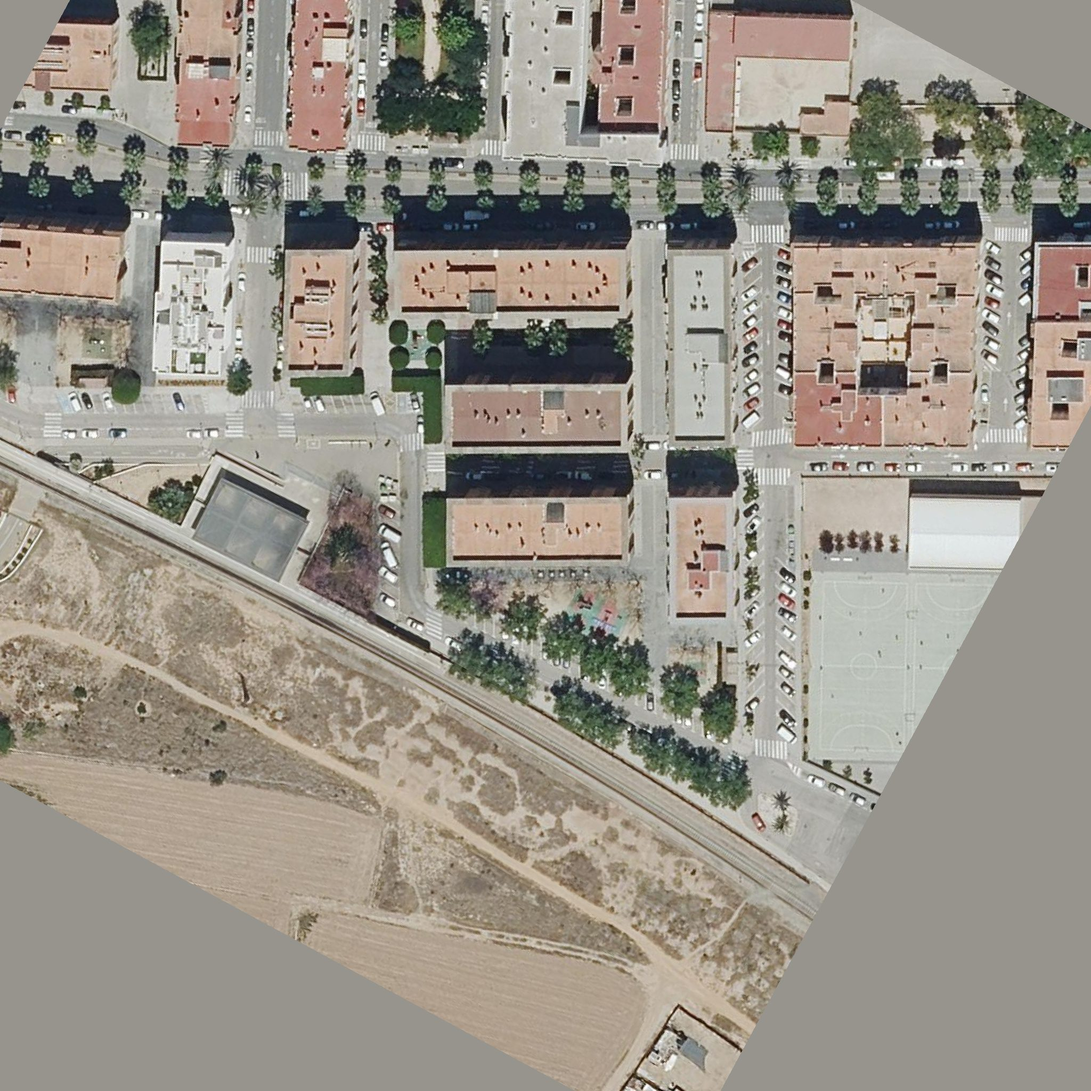
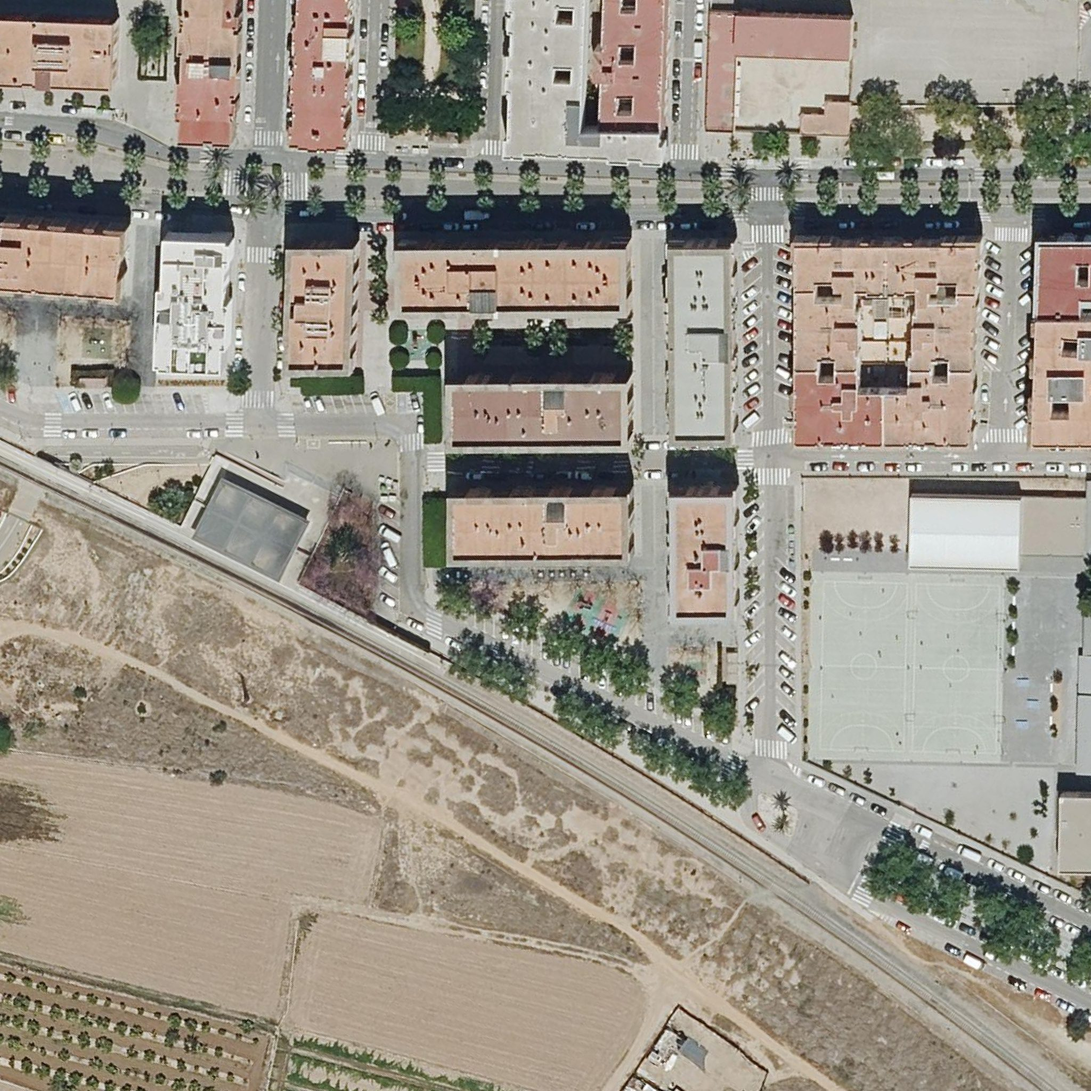
Parque del Avión: rebuild the park across Guerrer de Moixent
Replace the made-up school block with what the orthophoto shows: two futsal
pitches, a sandy area with a row of trees, the white sports hall; make it
walkable. Grass and hedges instead of the brown beds; larger orthophoto.

Claude-Session: https://claude.ai/code/session_01MoTK5Y6DpsqpTUyRVnBivJ

diff --git a/index.html b/index.html
@@ -184,9 +184,9 @@ const MAPS = {
   },
   avion: {
     title: 'PARQUE DEL AVIÓN', sub: 'XIRIVELLA · AV. DE LA CONSTITUCIÓ · PL. COMARE ROSARIO SOLER', street: 'Pl. de la Comare Rosario Soler',
-    ortho: 'assets/ortho_avion.jpg', nav: { x0: -46, z0: -30, w: 112, h: 92 }, map: { x0: -47, z0: -30, s: 1.55 },
-    spawns: [[-32, -22], [-32, -4], [-38, 9], [-18, -20.5], [2, -20.5], [24, -20.5], [44, -20.5], [54, -24], [54, 2], [54, 26], [54, 48], [30, 49], [8, 36], [-20, 19]],
-    pvp: [[-33, -14], [-32, 4], [-8, -20.5], [26, -8], [54, 30], [47, 46], [36, 20], [-16, 21.5], [-15.5, -6], [4, -6], [14, 39.5], [-4, 4]],
+    ortho: 'assets/ortho_avion.jpg', nav: { x0: -46, z0: -30, w: 163, h: 92 }, map: { x0: -48, z0: -36, s: 1.09 },
+    spawns: [[-32, -22], [-32, -4], [-38, 9], [-18, -20.5], [2, -20.5], [24, -20.5], [44, -20.5], [54, -24], [54, 2], [54, 26], [54, 48], [30, 49], [8, 36], [-20, 19], [100, 30], [70, -10], [112, 45], [90, -20.5]],
+    pvp: [[-33, -14], [-32, 4], [-8, -20.5], [26, -8], [54, 30], [47, 46], [36, 20], [-16, 21.5], [-15.5, -6], [4, -6], [14, 39.5], [-4, 4], [76, 40], [100, 18], [75, -8], [112, 48]],
     start: [26, 6, 2.2], coop: [[24, 3], [26, 4]], coopLook: [12, 14], vsA: [-33, -12], vsB: [54, 32],
     zone: { x: 12, z: 14.5, r: 4.5, name: 'el parque infantil' },
   },
@@ -702,7 +702,7 @@ const AV = {
   villa: { x0: -20.8, x1: -10.6, z0: -10.5, z1: -0.3, door: -13 },
   tot: { x0: -0.6, x1: 9.6, z0: -10.5, z1: -0.3, door: 6 },
   playground: { x0: 6, x1: 18, z0: 9.5, z1: 20 },
-  west: -42.5, east: 63.5, north: -26.6,
+  west: -42.5, east: 114.5, north: -26.6,
 };
 if (MAPID === 'avion') {   // textures only this map uses (built only when needed so map 1 keeps its random layout)
 T.paveGrey = makeTex(256, 256, (g, w, h) => {
@@ -723,8 +723,8 @@ T.hedge = makeTex(128, 128, (g, w, h) => {
 });
 T.flowers = makeTex(128, 128, (g, w, h) => {
   g.fillStyle = '#3f2f22'; g.fillRect(0, 0, w, h);
-  speckle(g, w, h, 1600, ['#3d6b2c', '#4f7d35', '#2e5422'], 2, 5);
-  speckle(g, w, h, 900, ['#d1202a', '#e2343a', '#b5141f', '#f05a4a'], 2, 4);
+  speckle(g, w, h, 5000, ['#3d6b2c', '#4f7d35', '#2e5422', '#5a8a3a'], 2, 5);
+  speckle(g, w, h, 700, ['#d1202a', '#e2343a', '#b5141f', '#f05a4a'], 2, 4);
 });
 T.brickFacade = facadeTex('#b8693f', '#e9e4da', true);
 T.brickFacade2 = facadeTex('#c27a4c', '#7c6a58', true);
@@ -936,7 +936,7 @@ function avionLevel() {
   if (PB_concrete) for (const k of ['map', 'normalMap', 'roughnessMap']) side[k].repeat.set(1 / 2.5, 1 / 2.5);
   polySlab([[-29, -17.5], [50.5, -17.5], [50.5, edge(50.5)], [0, edge(0)], [0, zc(0) - 3.25], [-29, zc(-29) - 3.25]], 0.15, plaza);
   polySlab([[-42.5, zc(-42.5) + 8.25], [xCap, zc(xCap) + 8.25], [xCap, W(xCap)], [-42.5, W(-42.5)]], 0.15, side);
-  polySlab([[-42.5, -26.6], [64, -26.6], [64, -23.5], [-42.5, -23.5]], 0.15, side);
+  polySlab([[-42.5, -26.6], [114.5, -26.6], [114.5, -23.5], [-42.5, -23.5]], 0.15, side);
   polySlab([[-42.5, -23.5], [-40.5, -23.5], [-40.5, 7], [-42.5, 7]], 0.15, side);
   polySlab([[61.5, -23.5], [64, -23.5], [64, AV.capZ], [61.5, AV.capZ]], 0.15, side);
 
@@ -969,8 +969,12 @@ function avionLevel() {
     }
   }
   // garden by Carrer del Guerrer de Moixent (OpenStreetMap park), raised bed with flowers and railing
-  flowerBed(29.5, 24, 40.5, 33.5); railing(29.4, 23.9, 40.6, 23.9); railing(29.4, 23.9, 29.4, 33.6); railing(40.6, 23.9, 40.6, 33.6);
-  flowerBed(41.5, 34.5, 46, 41.5);
+  { const grass = makeTex(128, 128, (g, w, h) => { g.fillStyle = '#5d7d3a'; g.fillRect(0, 0, w, h); speckle(g, w, h, 6000, ['#6b8c44', '#4f6e30', '#77984e', '#587a36'], 1, 2); });
+    for (const [x0, z0, x1, z1] of [[29.5, 24, 40.5, 33.5], [41.5, 34.5, 46, 41.5]]) {
+      flat(grass, x0, z0, x1, z1, 0.16, 2, { layer: 3, rough: 1 });
+      const hm = std({ map: rep(T.hedge, 2, 1), roughness: 0.95 });
+      box(x1 - x0, 0.55, 0.45, hm, (x0 + x1) / 2, 0.15, z0 + 0.22, { sight: false }); box(0.45, 0.55, z1 - z0, hm, x0 + 0.22, 0.15, (z0 + z1) / 2, { sight: false }); box(0.45, 0.55, z1 - z0, hm, x1 - 0.22, 0.15, (z0 + z1) / 2, { sight: false });
+    } }
 
   // ------------------------------------------------ buildings (OpenStreetMap footprints and storeys)
   const HA = blockAv(AV.A, 6, T.brickFacade, T.shopX, [AV.villa, AV.tot]);
@@ -987,14 +991,54 @@ function avionLevel() {
     st.position.set(-71.5, 2.75, -9.6); st.rotation.y = -0.46; addMesh(st);
     const sg = signTex(512, 64, (g, w, h) => { g.fillStyle = '#f4f4f0'; g.fillRect(0, 0, w, h); g.fillStyle = '#1c3f7a'; g.font = 'bold 36px sans-serif'; g.textAlign = 'center'; g.textBaseline = 'middle'; g.fillText('XIRIVELLA - ALQUERIES', w / 2, h / 2 + 2); });
     const sm = new THREE.Mesh(new THREE.PlaneGeometry(8, 1), std({ map: sg, emissive: 0x333333 })); sm.position.set(-62.6, 4.2, -5.3); sm.rotation.y = -0.46 + Math.PI / 2; scene.add(sm); }
-  // IES Ramon Muntaner: sports court and school building, behind a tall fence
-  { const cm = flat(T.court, 64.5, 6, 108, 50, 0.02, 0, { layer: 2, rough: 0.9 }).material; cm.map.repeat.set(1, 1); }
-  blockAv({ x0: 66, x1: 104, z0: -22, z1: 2 }, 2, T.facadeB, T.shopX);
+  // park on the other side of Carrer del Guerrer de Moixent (measured on the orthophoto): two futsal pitches
+  // side by side, a sandy area with a row of trees, the white sports hall and a column of trees on the far side
   {
-    const fenceMat = new THREE.MeshStandardMaterial({ map: T.chain, alphaMap: T.chain, alphaTest: 0.35, side: THREE.DoubleSide, color: 0x6f9a6a, metalness: 0.5, roughness: 0.5 });
-    const L = 80, FH = 3.2, tex = T.chain.clone(); tex.repeat.set(L / 0.12, FH / 0.12); tex.needsUpdate = true; const mat = fenceMat.clone(); mat.map = tex; mat.alphaMap = tex;
-    const p = new THREE.Mesh(new THREE.PlaneGeometry(L, FH), mat); p.position.set(AV.east + 0.3, FH / 2, 22); p.rotation.y = Math.PI / 2; scene.add(p);
-    for (let z = -18; z <= 62; z += 3) { const post = new THREE.Mesh(new THREE.CylinderGeometry(0.04, 0.04, FH, 6), M.green); post.position.set(AV.east + 0.3, FH / 2, z); scene.add(post); }
+    const court = makeTex(880, 888, (g, w, h) => {   // 20 px per metre: x 65 … 109, z 6.8 … 51.2
+      g.fillStyle = '#bdbab2'; g.fillRect(0, 0, w, h);
+      speckle(g, w, h, 30000, ['#b3b0a8', '#c6c3bb', '#a9a69e'], 1, 2.5);
+      blotches(g, w, h, 30, 'rgba(70,65,55,0.10)', 30, 90);
+      g.strokeStyle = '#f2f2ec'; g.lineWidth = 3.5;
+      for (const ox of [0, 440]) {
+        const x0 = ox + 20, x1 = ox + 420, y0 = 20, y1 = h - 20, cx = (x0 + x1) / 2, cy = h / 2;
+        g.strokeRect(x0, y0, x1 - x0, y1 - y0);
+        g.beginPath(); g.moveTo(x0, cy); g.lineTo(x1, cy); g.stroke();
+        g.beginPath(); g.arc(cx, cy, 60, 0, Math.PI * 2); g.stroke();
+        g.beginPath(); g.arc(cx, y0, 120, 0, Math.PI); g.stroke();
+        g.beginPath(); g.arc(cx, y1, 120, Math.PI, Math.PI * 2); g.stroke();
+      }
+    });
+    court.wrapS = court.wrapT = THREE.ClampToEdgeWrapping;
+    const sand = PB_dirt ? pbr(PB_dirt, 1, 1, 1, { color: 0xe6d2a8 }) : std({ map: T.dirt });
+    if (PB_dirt) for (const k of ['map', 'normalMap', 'roughnessMap']) sand[k].repeat.set(1 / 3, 1 / 3);
+    const pave = PB_concrete ? pbr(PB_concrete, 1, 1, 1, { color: new THREE.Color().setRGB(1.3, 1.28, 1.24) }) : std({ map: T.concrete });
+    if (PB_concrete) for (const k of ['map', 'normalMap', 'roughnessMap']) pave[k].repeat.set(1 / 3, 1 / 3);
+    polySlab([[64, -17.5], [86.6, -17.5], [86.6, 6.8], [64, 6.8]], 0.15, sand);
+    polySlab([[86.6, -17.5], [114.5, -17.5], [114.5, 6.8], [86.6, 6.8]], 0.15, pave);
+    polySlab([[64, 6.8], [114.5, 6.8], [114.5, 52], [64, 52]], 0.15, pave);
+    { const m = flat(court, 65, 6.8, 109, 51.2, 0.152, 0, { layer: 3, rough: 0.9 }); m.material.map.repeat.set(1, 1); if (PB_concrete) { m.material.normalMap = rep(PB_concrete.normalMap, 14, 14); m.material.needsUpdate = true; } }
+    // futsal goals at both ends of both pitches
+    const goal = (gx, z, dir) => {
+      const g = new THREE.Group(), pm = M.white;
+      const p1 = new THREE.Mesh(new THREE.CylinderGeometry(0.05, 0.05, 2, 8), pm); p1.position.set(-1.5, 1, 0);
+      const p2 = p1.clone(); p2.position.x = 1.5;
+      const cb = new THREE.Mesh(new THREE.CylinderGeometry(0.05, 0.05, 3.1, 8), pm); cb.rotation.z = Math.PI / 2; cb.position.y = 2;
+      const nt = T.chain.clone(); nt.repeat.set(30, 20); nt.needsUpdate = true;
+      const nm = new THREE.MeshStandardMaterial({ map: nt, alphaMap: nt, alphaTest: 0.35, side: THREE.DoubleSide, color: 0xffffff });
+      const back = new THREE.Mesh(new THREE.PlaneGeometry(3, 2), nm); back.position.set(0, 1, -1);
+      const s1 = new THREE.Mesh(new THREE.PlaneGeometry(1, 2), nm); s1.rotation.y = Math.PI / 2; s1.position.set(-1.5, 1, -0.5);
+      const s2 = s1.clone(); s2.position.x = 1.5;
+      g.add(p1, p2, cb, back, s1, s2); g.traverse(o => { if (o.isMesh) o.castShadow = true; });
+      g.position.set(gx, 0.15, z); g.rotation.y = dir; scene.add(g);
+      const zz = z - Math.cos(dir) * 0.5; addCol(gx - 1.6, gx + 1.6, zz - 0.55, zz + 0.55, 0, 2.1, { sight: false, nav: true });
+    };
+    for (const gx of [76, 98]) { goal(gx, 8.3, 0); goal(gx, 49.7, Math.PI); }
+    // white sports hall (ribbed sheet walls, roof from the photo)
+    const hallTex = makeTex(256, 256, (g, w, h) => { g.fillStyle = '#ecebe6'; g.fillRect(0, 0, w, h); for (let x = 0; x < w; x += 8) { g.fillStyle = 'rgba(0,0,0,.07)'; g.fillRect(x, 0, 2, h); g.fillStyle = 'rgba(255,255,255,.2)'; g.fillRect(x + 3, 0, 1, h); } g.fillStyle = '#b9b7b0'; g.fillRect(0, 230, w, 26); blotches(g, w, h, 5, 'rgba(90,80,70,0.08)', 20, 60); });
+    const hm = (n) => std({ map: rep(hallTex, n / 8, 1), normalMap: rep(T.warehouseN, n / 8, 1), normalScale: new THREE.Vector2(0.6, 0.6), color: 0xf4f4f0, roughness: 0.6, metalness: 0.2, envMapIntensity: 0.8 });
+    const hall = new THREE.Mesh(new THREE.BoxGeometry(26.7, 9, 21.6), [hm(21.6), hm(21.6), M.roof, M.roof, hm(26.7), hm(26.7)]);
+    hall.position.set(99.95, 4.5, -4.6); addMesh(hall); addCol(86.6, 113.3, -15.4, 6.2, 0, 9);
+    orthoRoof(86.6, -15.4, 113.3, 6.2, 9.02);
   }
   // railway: scrubland, two tracks and catenary posts beyond a low wall
   {
@@ -1015,12 +1059,12 @@ function avionLevel() {
     const wl = new THREE.Mesh(new THREE.BoxGeometry(L, 1.0, 0.3), wallM); wl.position.set((x0 + x1) / 2, 0.5, (zz0 + zz1) / 2 + 0.15); wl.rotation.y = -A_; addMesh(wl);
     for (let x = x0; x < x1; x += 2.4) { const p = new THREE.Mesh(new THREE.BoxGeometry(0.05, 1.2, 0.05), railM); p.position.set(x, 1.6, W(x) + 0.15); scene.add(p); }
     for (const yy of [1.1, 2.15]) { const r = new THREE.Mesh(new THREE.BoxGeometry(L, 0.05, 0.05), railM); r.position.set((x0 + x1) / 2, yy, (zz0 + zz1) / 2 + 0.15); r.rotation.y = -A_; scene.add(r); }
-    for (let x = -46; x < 66; x++) { const z = Math.min(AV.capZ, W(x + 0.5)); addCol(x, x + 1, z, z + 3, 0, 50, { sight: false }); }
+    for (let x = -46; x < 117; x++) { const z = Math.min(AV.capZ, W(x + 0.5)); addCol(x, x + 1, z, z + 3, 0, 50, { sight: false }); }
     // concrete planters where the area ends on the south-east (the roundabout beyond is out of bounds)
-    for (let x = xCap + 2; x < 64; x += 3.2) box(1.2, 0.7, 1.2, std({ color: 0xb9b4aa, roughness: 0.95 }), x, x > 50.5 && x < 57.5 ? 0 : 0.15, AV.capZ + 0.4, { col: false });
+    for (let x = xCap + 2; x < 114; x += 3.2) box(1.2, 0.7, 1.2, std({ color: 0xb9b4aa, roughness: 0.95 }), x, x > 50.5 && x < 57.5 ? 0 : 0.15, AV.capZ + 0.4, { col: false });
     addCol(AV.west - 2, AV.west, -40, 30, 0, 50, { sight: false });
     addCol(AV.east, AV.east + 2, -40, 80, 0, 50, { sight: false });
-    addCol(-60, 80, AV.north - 2, AV.north, 0, 50, { sight: false });
+    addCol(-60, 130, AV.north - 2, AV.north, 0, 50, { sight: false });
     box(0.3, 0.9, 33, wallM, AV.west - 0.15, 0.15, -9.5, { col: false });
   }
 
@@ -1115,6 +1159,9 @@ function avionTrees() {
   // column of trees on the west pavement of Carrer del Guerrer de Moixent, and the row along the school fence
   for (const z of [-2, 7, 17, 27, 37]) { tree(48 + R(-0.2, 0.2), z, R(0.95, 1.1), 'plane', 0.15); pit(48, z); }
   for (const z of [-12, -3, 6.7, 14, 25, 33.7, 41.8, 49.8]) tree(62.6, z, R(0.75, 0.9), 'leafy', 0.15);
+  // the park across Guerrer de Moixent: row of trees on the sand and a column beside the pitches
+  for (const x of [66, 69.5, 73, 76.5, 80, 83.5]) tree(x + R(-0.2, 0.2), -0.8, R(0.8, 0.95), 'leafy', 0.15);
+  for (const z of [9, 14, 19, 24, 28.5]) tree(111.4, z, R(0.85, 1.0), 'leafy', 0.15);
   // jacaranda garden by the station
   for (const [x, z] of [[-50, -14], [-47, -6], [-53, 0], [-48, 6], [-56, -8]]) tree(x, z, R(1.0, 1.2), rnd() < 0.6 ? 'jacaranda' : 'leafy', 0.02);
   for (const [x, z] of [[-30, -40], [-35, -32], [26, -40], [26, -30.5], [-27, -30]]) tree(x, z, R(0.9, 1.1), 'leafy', 0.15);
@@ -1123,7 +1170,8 @@ function avionTrees() {
 function avionProps() {
   const zc = AV.zc, A_ = AV.ang, sA = Math.sin(A_), cA = Math.cos(A_);
   // benches facing the playground and along the plaza, lamps, bins and recycling containers
-  for (const [x, z, r] of [[-11, 13.5, -0.4], [-2, 12, -0.2], [3.2, 13.5, Math.PI / 2], [20, 12.5, -Math.PI / 2], [20, 17, -Math.PI / 2], [26, 10, Math.PI], [26, 20, 0], [36, 18, Math.PI]]) bench(x, z, r);
+  for (const [x, z, r] of [[-11, 13.5, -0.4], [-2, 12, -0.2], [3.2, 13.5, Math.PI / 2], [20, 12.5, -Math.PI / 2], [20, 17, -Math.PI / 2], [26, 10, Math.PI], [26, 20, 0], [36, 18, Math.PI], [68, 3.5, Math.PI], [74, 3.5, Math.PI], [80, 3.5, Math.PI], [111.5, 34, -Math.PI / 2], [111.5, 40, -Math.PI / 2]]) bench(x, z, r);
+  for (const [x, z] of [[85, -14], [111, 12], [70, 52.5], [100, 52.5]]) lamp(x, z);
   for (const [x, z] of [[-27.5, 4], [-8, 7.5], [11, 7.5], [24, -14], [24, 6], [24, 26], [36.5, 20], [48.6, 12], [48.6, 32], [-41.5, -12], [-41.5, 4], [62.8, 0], [62.8, 30]]) lamp(x, z);
   for (let x = -20; x <= 40; x += 15) { const d = x >= 0 ? 9.2 : 4.2; lamp(x + sA * d, zc(x) - cA * d); }
   for (const [x, z] of [[-9.5, 7.6], [19, 7.8], [29, -16.6], [46.5, 20]]) {
@@ -1143,6 +1191,8 @@ function avionProps() {
     if (rnd() > 0.75 || AV.treesS.some(tx => Math.abs(tx - x) < 1.6)) continue;
     const z = zc(x); car(x - sA * 5.75, z + cA * 5.75, -(Math.PI / 2 + A_) + (rnd() < 0.5 ? 0 : Math.PI), rnd() < 0.1 ? 'van' : 'car');
   }
+  for (let x = 66; x < 112; x += 5.4) if (rnd() < 0.7) car(x, -19.4, rnd() < 0.5 ? 0 : Math.PI, rnd() < 0.12 ? 'van' : 'car');
+  for (let x = 66; x < 110; x += 6) if (rnd() < 0.45) car(x, 55.5, rnd() < 0.5 ? 0 : Math.PI);
   for (let z = -15.4; z < 54; z += 3.3) if (rnd() < 0.75) car(59.4, z - 1.5, rnd() < 0.5 ? Math.PI / 4 : -3 * Math.PI / 4, rnd() < 0.12 ? 'van' : 'car');
   for (let x = -26; x < 45; x += 5.6) { if (Math.abs(x - 26) < 5) continue; if (rnd() < 0.55) car(x, -22.4, 0, rnd() < 0.15 ? 'van' : 'car'); if (rnd() < 0.45 && x > -20) car(x + 1.5, -18.6, Math.PI); }
 }
@@ -2451,6 +2501,9 @@ function streetName() {
     if (z > AV.edge(x) - 0.2) return 'Av. de la Constitució';
     if (z > -23.5 && z < -17.5) return 'Carrer de Carmen Estellés';
     if (x > 50.5 && x < 57.5) return 'Carrer del Guerrer de Moixent';
+    if (x > 64 && z > 6.8 && z < 52) return 'Pistas de fútbol sala del parque';
+    if (x > 64 && x < 86.6 && z > -17.5 && z < 6.8) return 'Parque (zona de arena)';
+    if (x > 64 && z < 6.8 && z > -17.5) return 'Pabellón deportivo';
     if (inR(AV.playground)) return 'Parque infantil';
     if (z > 8 && x < 24) return 'Parque del Avión';
     return 'Pl. de la Comare Rosario Soler';
